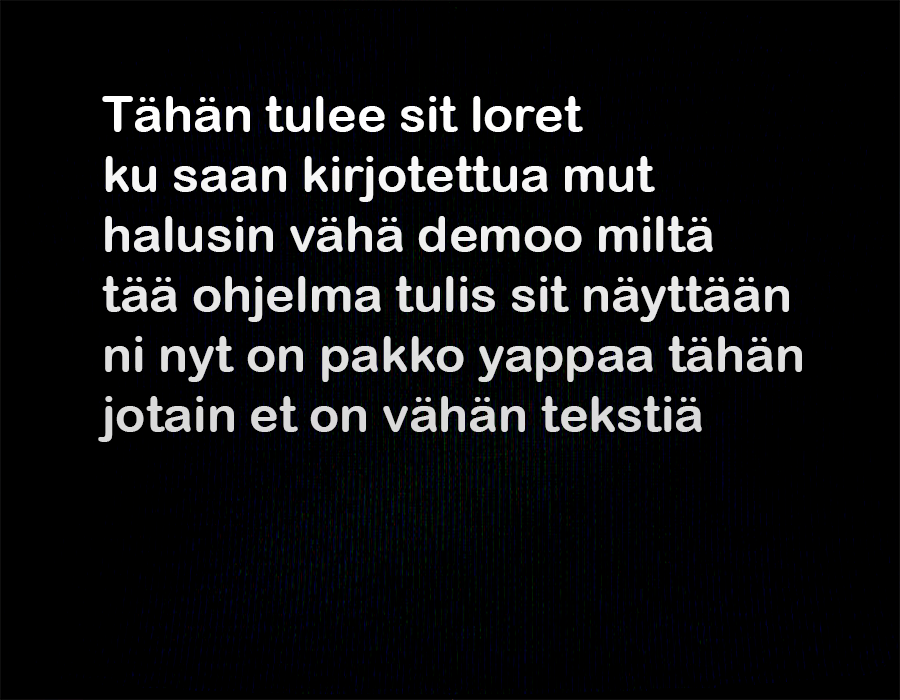
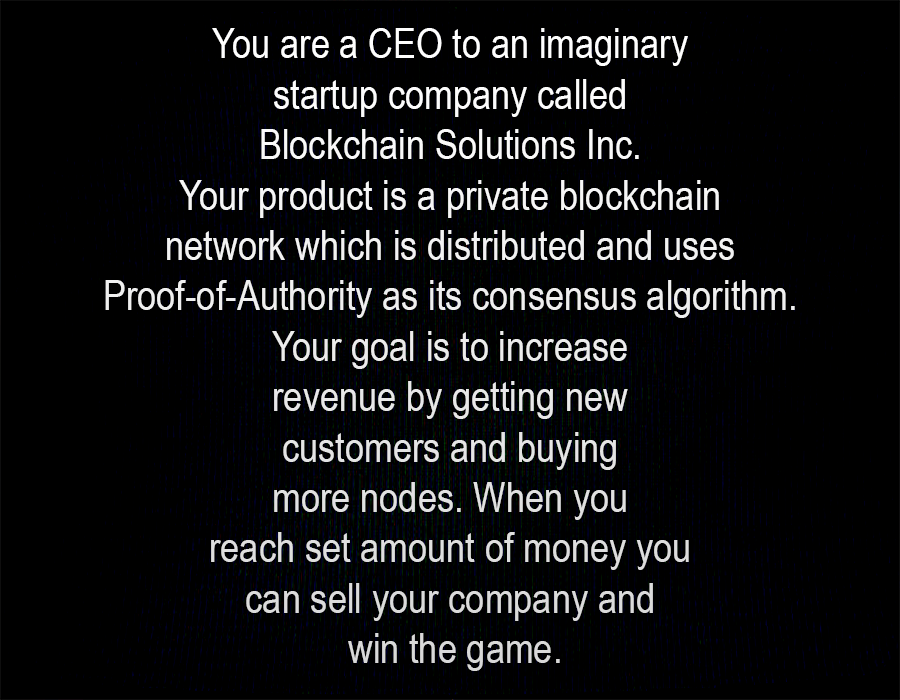
Updated lore page and instructions page

Changed region(s): [[0.0933, 0.12, 0.9022, 0.81], [0.2489, 0.84, 0.7467, 0.96], [0.2178, 0.03, 0.7778, 0.09]]

diff --git a/src/main/java/project/game/blockchaintycoon/Main.java b/src/main/java/project/game/blockchaintycoon/Main.java
@@ -48,8 +48,8 @@ public class Main extends Application {
         Pane lorePane = new Pane(loreImage, startGameButton);
         Scene loreScene = new Scene(lorePane, 900, 700); // scene lorelle
 
-        startGameButton.setLayoutX(325);
-        startGameButton.setLayoutY(450);
+        startGameButton.setLayoutX(625);
+        startGameButton.setLayoutY(350);
         startGameButton.setGraphic(startImage);
         startGameButton.setStyle(
                 "-fx-background-color: transparent;" +
